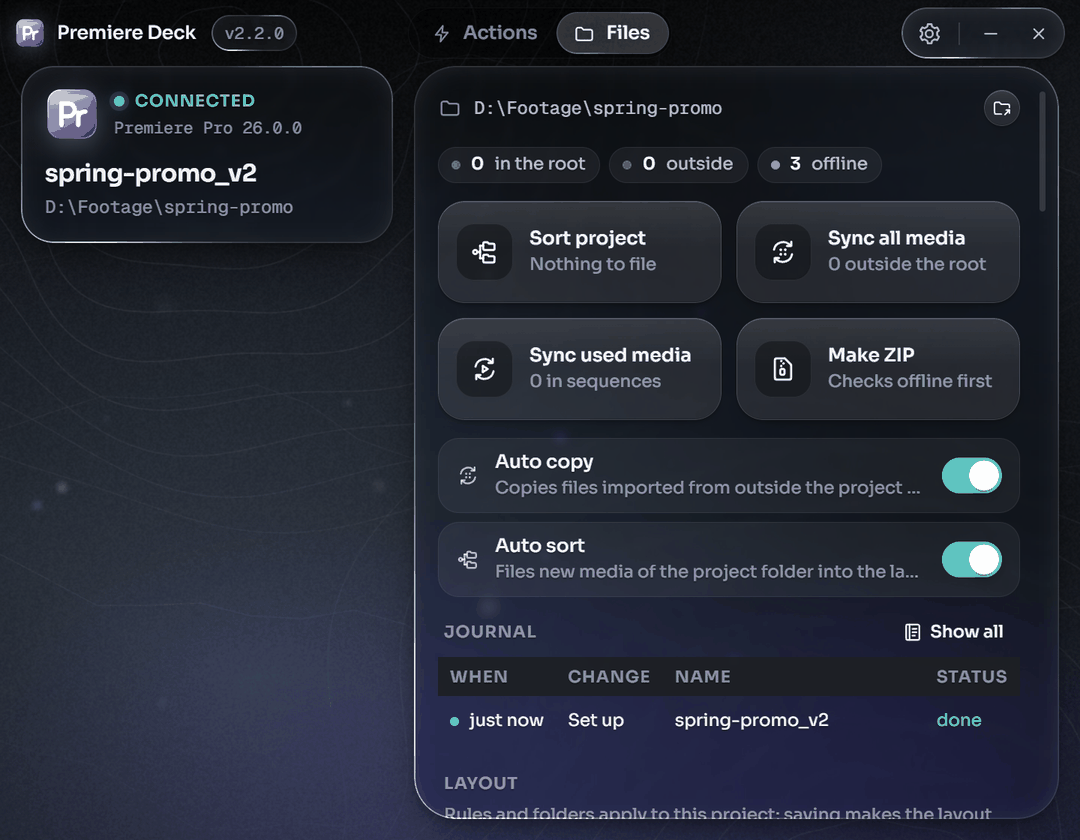
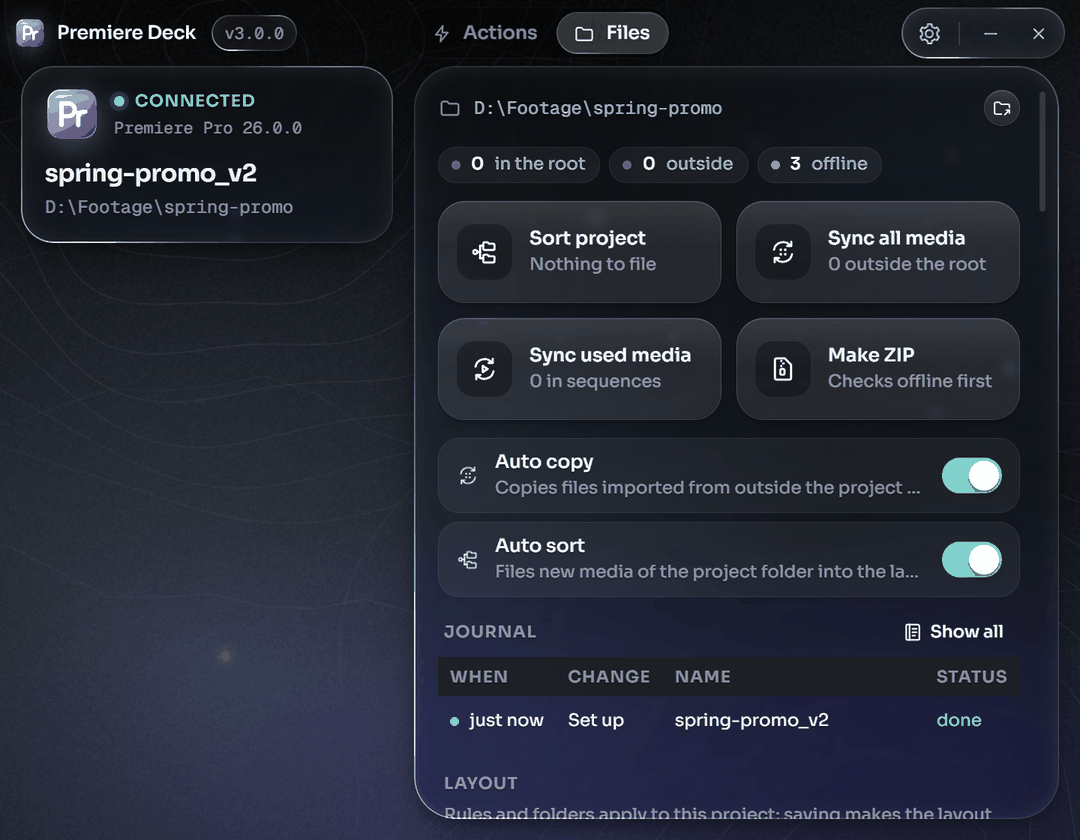
README: screenshots of 3.0.0 and the panel

diff --git a/docs/assets/README.md b/docs/assets/README.md
@@ -6,10 +6,14 @@ Images referenced by the README, the user guide and the repository page. Each sc
 |---|---|---|
 | `hero.svg` | Banner at the top of the README (1280 x 400), generated from the app icon and the Crystal Black theme colours | README header, `width="100%"` |
 | `social-preview.png` | Social preview of the repository (1280 x 640), uploaded in the repository settings | repository settings |
-| `screenshot.png` | Main window (720 x 560) on the Files tab in Crystal Black, the module tabs in the title bar, project set up, Auto copy and Auto sort on, version pill v2.2.0 | README header, `width="860"` |
-| `idle.png` | Start screen (420 x 560): Launch Premiere Pro and the recent projects, version pill v2.2.0 | README header, `width="36%"` |
-| `settings.png` | Settings sheet over the main window: Appearance with the two theme cards and the Scale row, Behaviour with Keep running and Show activity | README header, `width="62%"` |
+| `screenshot.png` | Main window (720 x 560) on the Files tab in Crystal Black, the module tabs in the title bar, project set up, Auto copy and Auto sort on, version pill v3.0.0 | README header, `width="860"` |
+| `panel.png` | The Premiere panel (360 x 640) on the Actions tab in Crystal Black: the pinned row ADJ, CLR, DUP, EXP and the eight lanes | README header, `width="28%"` |
+| `idle.png` | Start screen (420 x 560): Launch Premiere Pro and the recent projects, version pill v3.0.0 | README header, `width="36%"` |
 | `files.png` | Main window on the Actions tab in Crystal Sky: one visibility switch per quick action in the eight groups (file name kept from 2.0) | user guide, `width="860"` |
+| `settings.png` | Settings sheet over the main window: Appearance with the two theme cards and the Scale row, Behaviour with Keep running and Show activity | not referenced yet (kept for the user guide) |
+| `panel-files.png` | The panel on the Files tab in Crystal Black: SORT and SYNC with their AUTO capsules, USED, ZIP, SETUP and the Offline group | not referenced yet (kept for the user guide) |
 
-The screenshots are captured from the app running in its simulated mode (`--fake`, no Premiere Pro) at Scale
-100 %: a capture at device scale 2, shrunk to 0.75 and reduced to 256 colours.
+The window screenshots are captured from the app running in its simulated mode (`--fake`, no Premiere Pro) at Scale
+100 %: a capture at device scale 2, shrunk to 0.75 and reduced to 256 colours. The panel screenshots are the real
+panel page served by `tests\panel\live_server.py`, rendered in headless Chrome at 360 x 640 px, device scale 2 and
+shrunk to 0.75 without a palette (a 256-colour palette drops the small mint status dot and lamps).

diff --git a/README.md b/README.md
@@ -16,11 +16,11 @@
 
 **Premiere Deck is a Windows application and a small panel inside Adobe Premiere Pro. It sorts project media into folders and bins by content, syncs outside media into the project folder, packs the project into a ZIP, and adds one-button versions of routine timeline and project operations. One portable exe, no installer, no account; it installs the panel itself and updates from GitHub Releases.**
 
-<img src="docs/assets/screenshot.png" alt="Premiere Deck main window on the Files tab in Crystal Black: Sort project, Sync all media, Sync used media, Make ZIP and the Auto copy and Auto sort switches" width="860">
+<img src="docs/assets/screenshot.png" alt="Premiere Deck main window, version 3.0.0, on the Files tab in Crystal Black: the Premiere card, Sort project, Sync all media, Sync used media and Make ZIP, and the Auto copy and Auto sort switches" width="860">
 
-<img src="docs/assets/idle.png" alt="Premiere Deck start screen with the Launch Premiere Pro button and the recent projects" width="36%">&nbsp;<img src="docs/assets/settings.png" alt="Premiere Deck settings sheet with the Crystal Black and Crystal Sky theme cards and the Scale setting" width="62%">
+<img src="docs/assets/panel.png" alt="The Premiere Deck panel inside Premiere Pro on the Actions tab in Crystal Black: the pinned row ADJ, CLR, DUP and EXP above the lanes TIME, TRKS, SEL, CLIP, PROJ, SEQ, OUT and KEYS" width="28%">&nbsp;<img src="docs/assets/idle.png" alt="Premiere Deck start screen with the Launch Premiere Pro button and the recent projects" width="36%">
 
-<sub>Launch Premiere Pro from the Deck · open the panel once · sort and sync project media, run quick actions from the panel.</sub>
+<sub>Launch Premiere Pro from the window · open the panel once · run actions from the tiles · let the Files tab keep the media sorted.</sub>
 
 </div>
 

diff --git a/docs/USER_GUIDE.md b/docs/USER_GUIDE.md
@@ -161,9 +161,9 @@ How a few of the actions work:
 
 <div align="center">
 
-<img src="assets/files.png" alt="The Actions tab in Crystal Sky: one switch per quick action, in the eight groups Timeline, Tracks, Selection, Clips, Project, Sequence, Export and Keys" width="860">
+<img src="assets/files.png" alt="Premiere Deck window on the Actions tab in Crystal Sky: one visibility switch per quick action, in the eight groups Timeline, Tracks, Selection, Clips, Project, Sequence, Export and Keys" width="860">
 
-<sub>The Actions tab in Crystal Sky: every quick action can be shown in or hidden from the panel; the Tracks, Export and Keys groups are in the second column.</sub>
+<sub>The Actions tab in Crystal Sky: every quick action can be shown in or hidden from the panel; the Project, Sequence, Export and Keys groups are in the second column.</sub>
 
 </div>
 
